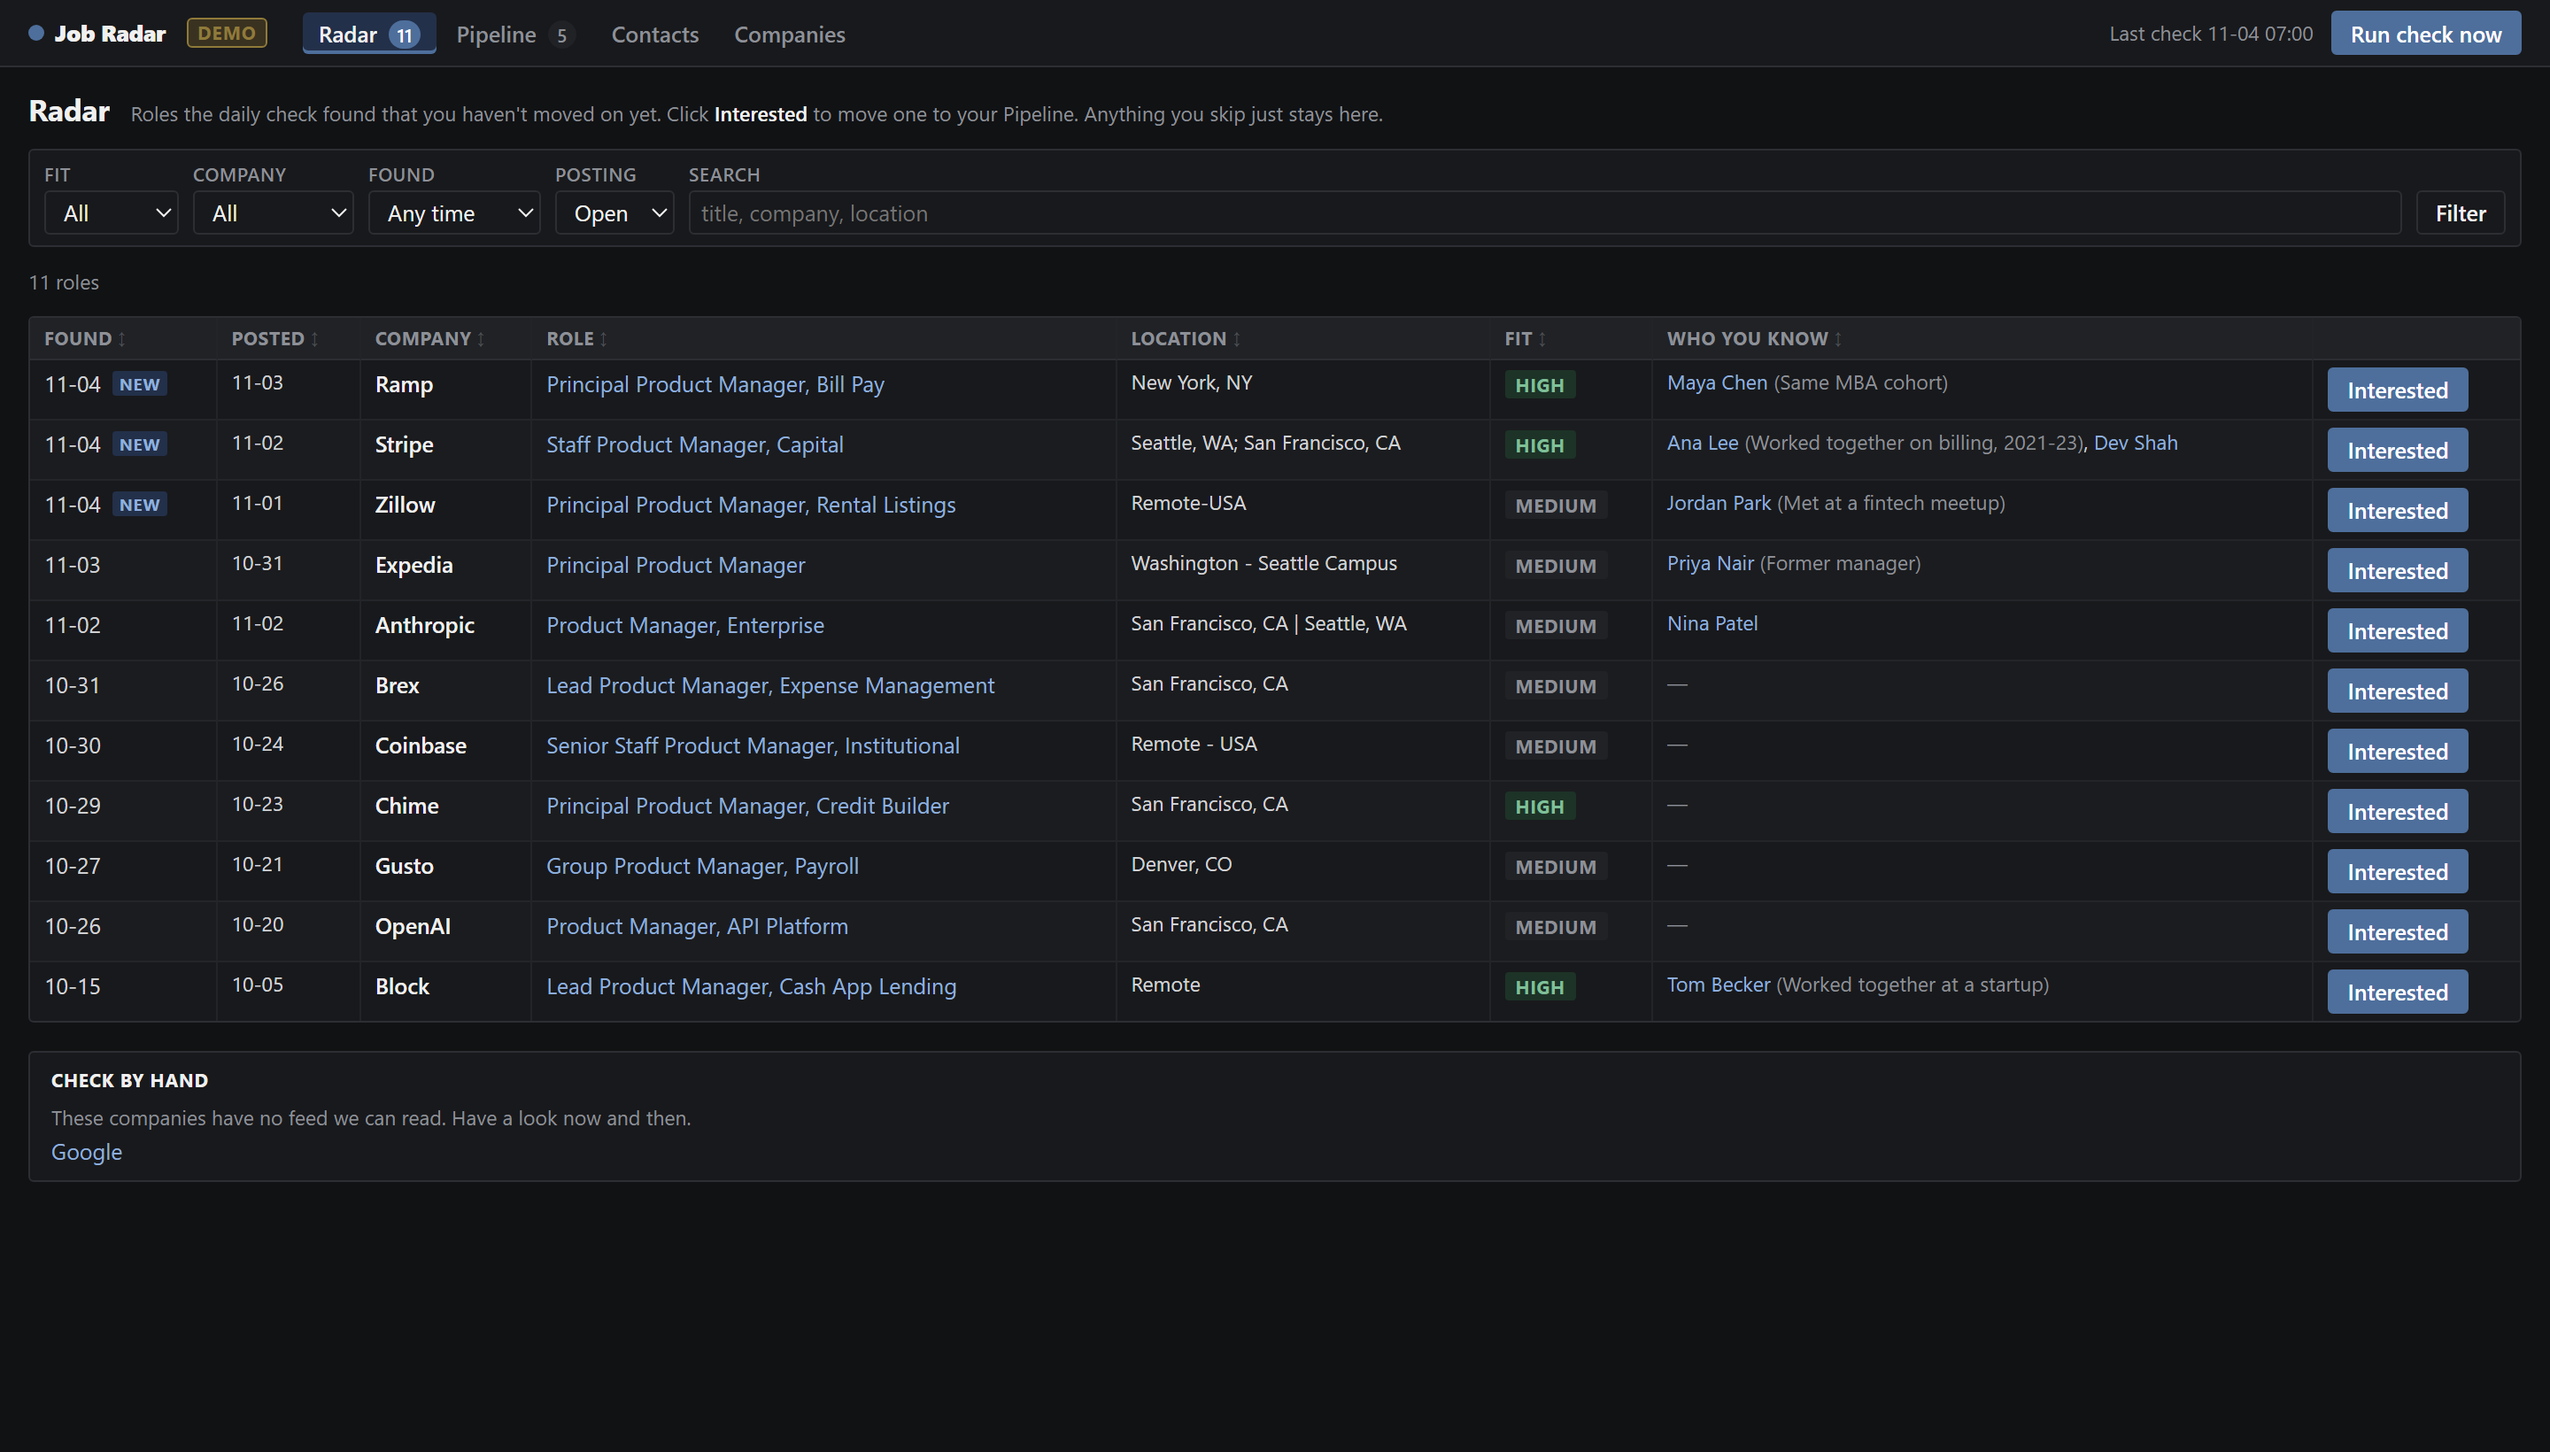
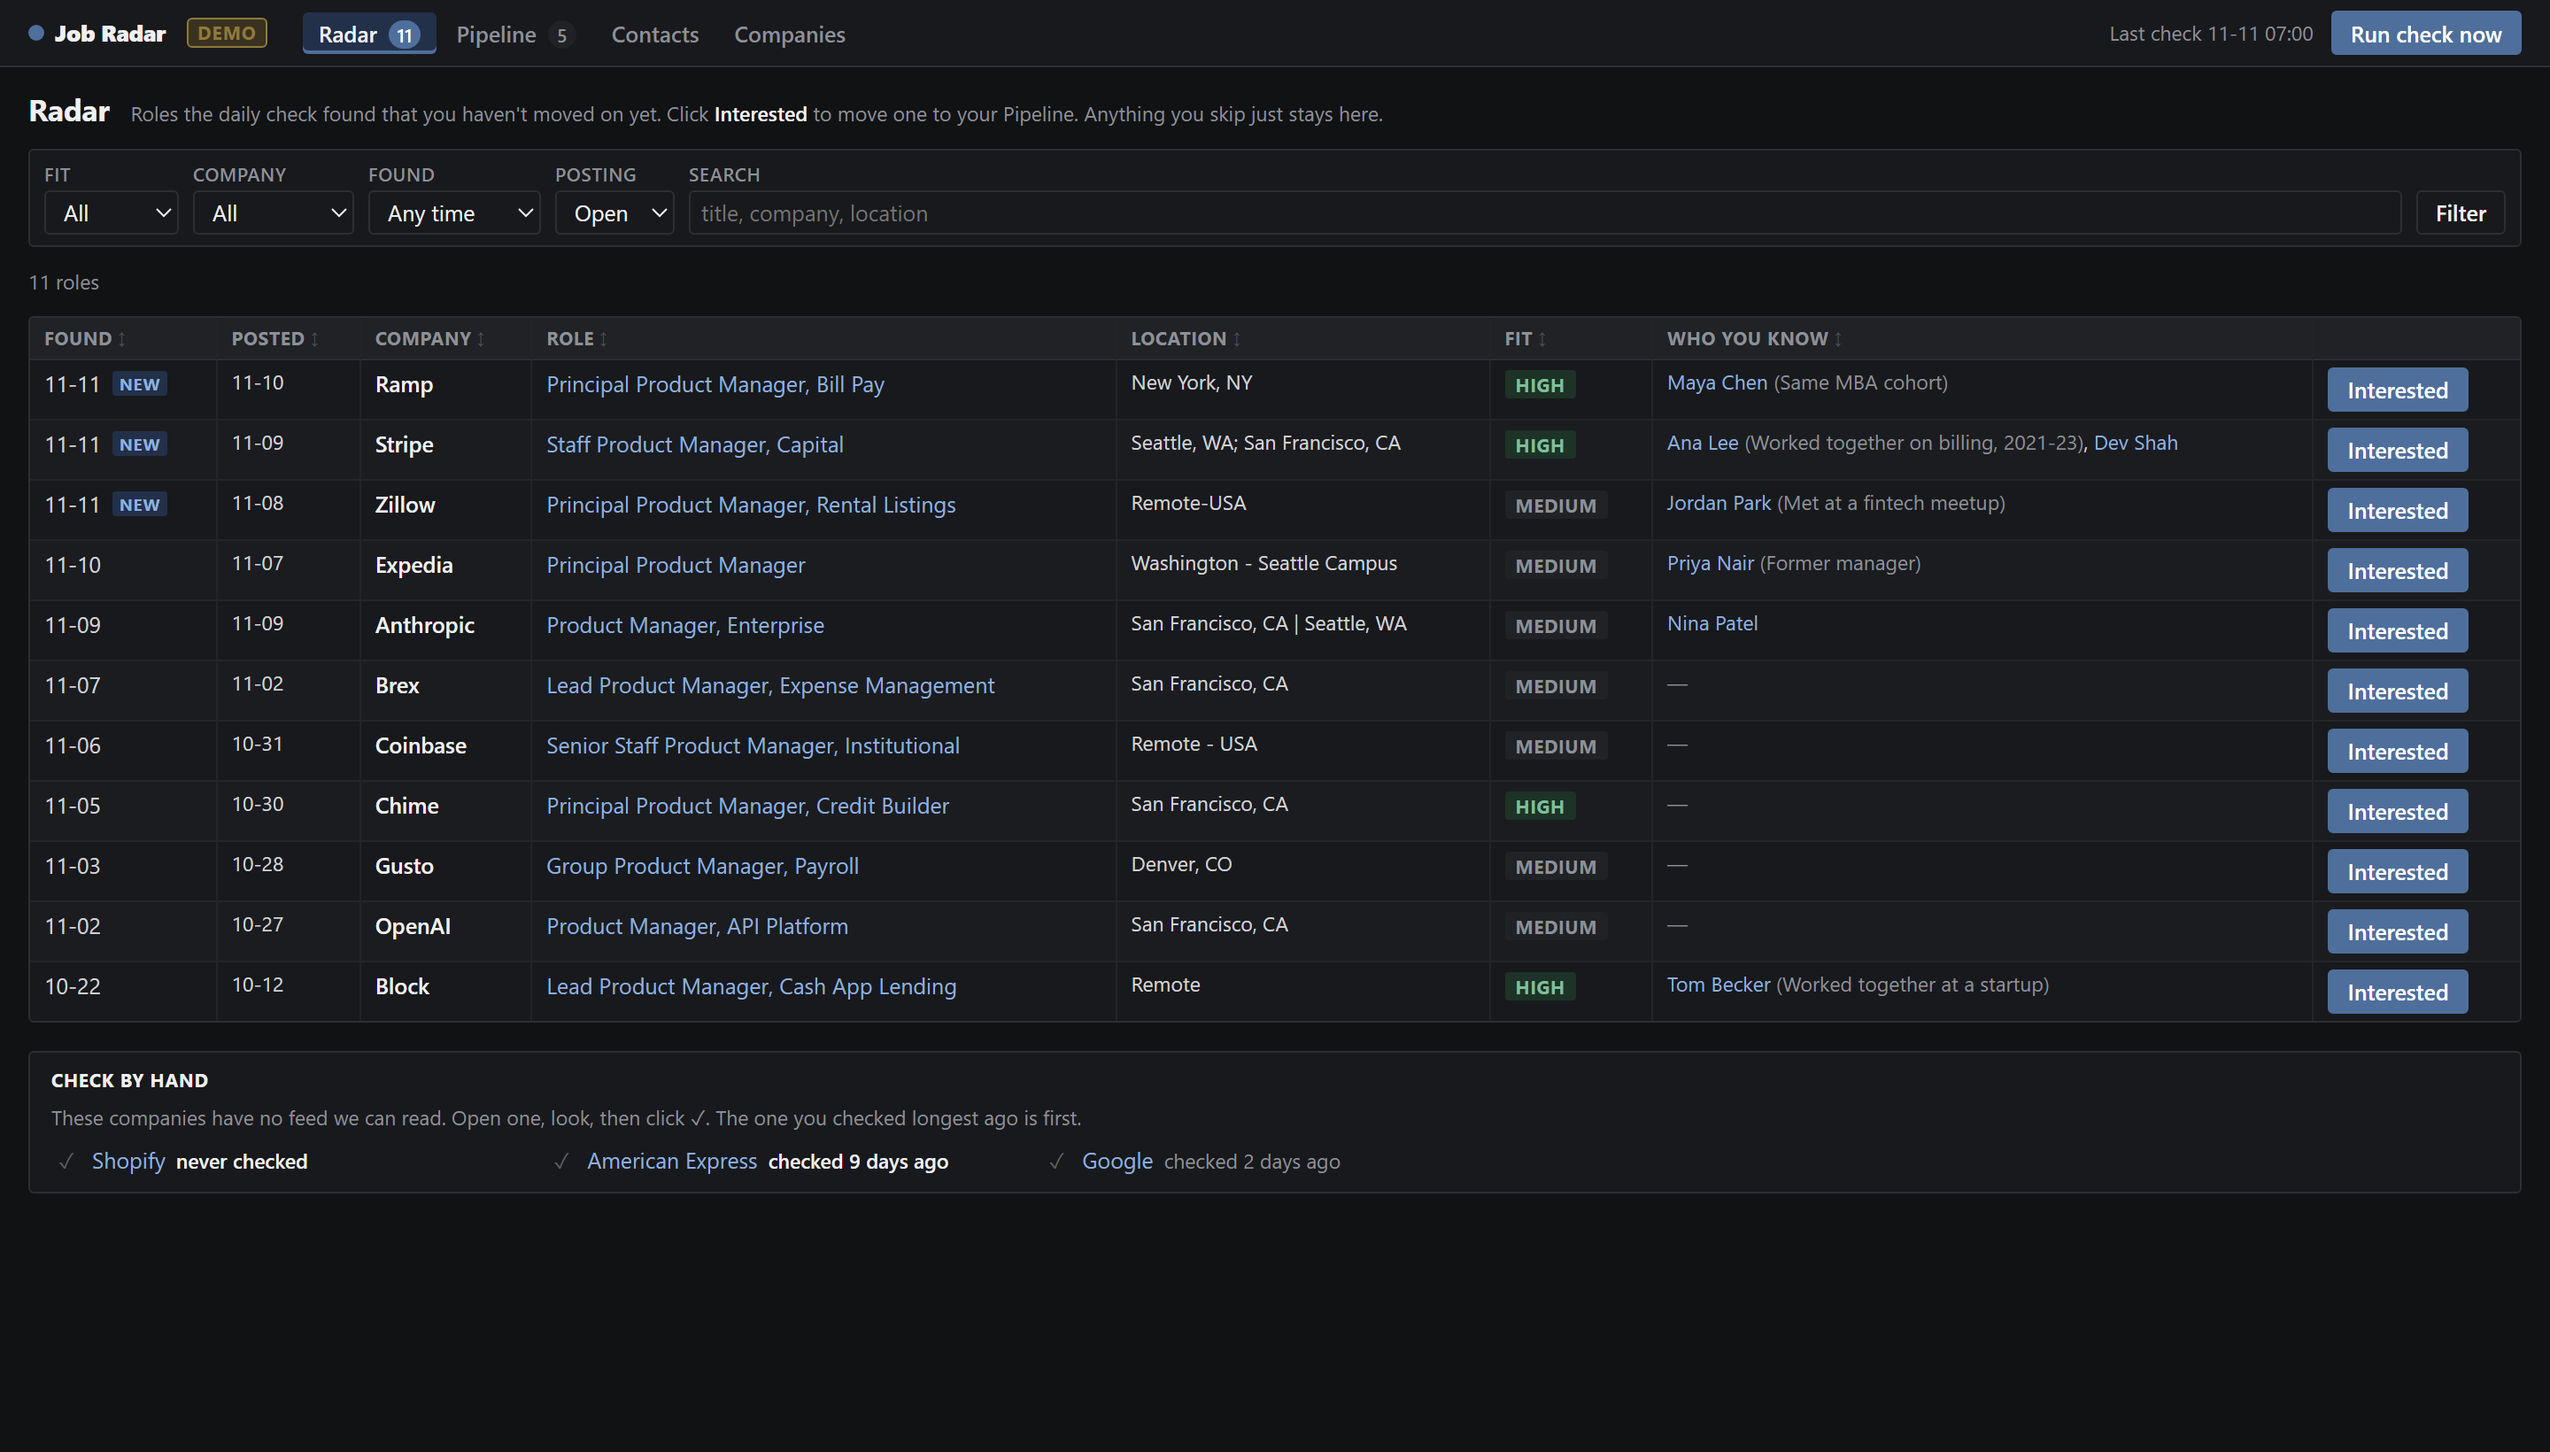
CI on actions v7; refreshed Radar screenshot; Check-by-hand examples in demo

Changed region(s): [[0.1875, 0.7463, 0.4062, 0.8085], [0.4375, 0.7774, 0.5312, 0.8085], [0.0312, 0.7774, 0.125, 0.8085]]

diff --git a/radar/demo.py b/radar/demo.py
@@ -83,6 +83,10 @@ def seed(conn):
     pipeline.add_manual(conn, "Northwind Lending", "Head of Product", url="https://example.com/northwind",
                         stage="Applied", date_applied=_ago(5), notes="Found via a newsletter.", at=_ago(5))
 
+    # Check by hand: one looked at recently, one a while ago (Shopify stays "never checked")
+    conn.executemany("INSERT OR REPLACE INTO manual_checks (company, checked_on) VALUES (?,?)",
+                     [("Google", _ago(2)), ("American Express", _ago(9))])
+
     conn.execute("INSERT INTO runs (run_at, companies_checked, postings_scanned, new_matches, errors) VALUES (?,?,?,?,?)",
                  (_ago(0) + "T07:00:12", 16, 1874, 3, None))
     conn.commit()
